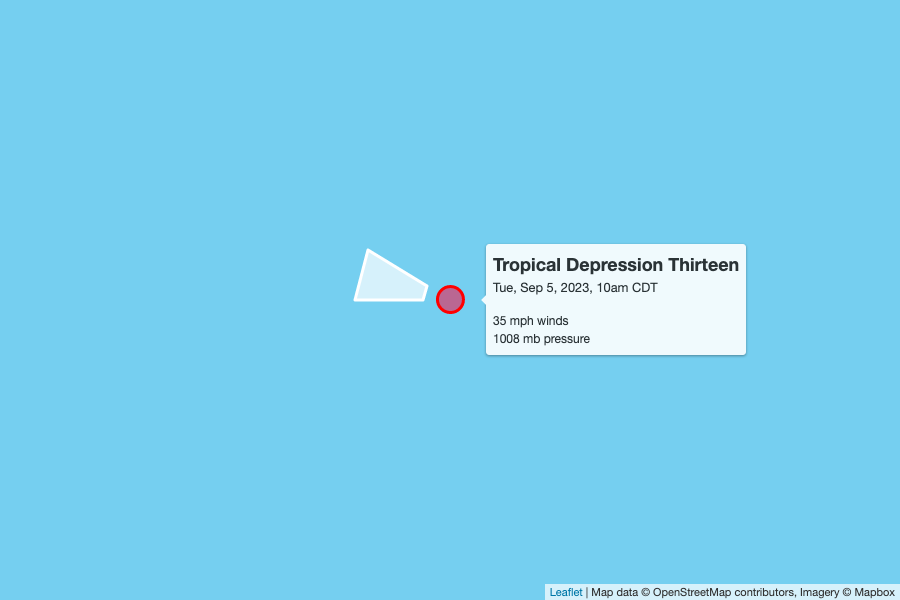
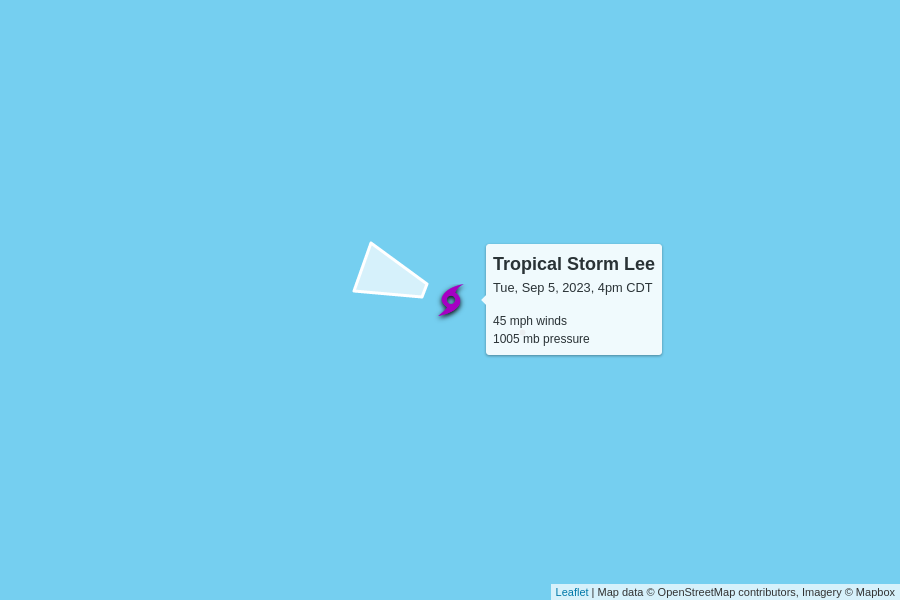
automatic update

Changed region(s): [[0.3733, 0.39, 0.84, 0.6], [0.5911, 0.96, 0.9956, 1.0]]

diff --git a/docs/index.html b/docs/index.html
@@ -101,8 +101,8 @@
       <tr>
         <td colspan="6" class="storm category-0" >
           <h2>
-            Tropical Depression Thirteen
-            <p class="updated">last updated <span data-time>2023-09-05T15:00:00.000Z</span></p>
+            Tropical Storm Lee
+            <p class="updated">last updated <span data-time>2023-09-05T21:00:00.000Z</span></p>
           </h2>
         </td>
       </tr>
@@ -117,15 +117,15 @@
       </tr>
       <tr>
         <td class="spacer"></td>
-        <td>35 mph<br></td>
-        <td>1008 mb<br></td>
+        <td>45 mph<br><br>+10 mph since last update</td>
+        <td>1005 mb<br><br>-3 mb since last update</td>
         <td>
-          15 mph to the west-northwest
+          16 mph to the west-northwest
           <br/>
-          <span style="display: inline-block; font-size: 1.5em; transform: rotate(285deg);">↑</span>
+          <span style="display: inline-block; font-size: 1.5em; transform: rotate(290deg);">↑</span>
         </td>
         <td><a href="https://raw.githubusercontent.com/mgwalker/atlantic-hurricanes/main/data/csv/AL132023.csv">AL132023.csv</a></td>
-        <td><a href="https://www.nhc.noaa.gov/archive/2023/THIRTEEN.shtml?">NHC advisories</a></td>
+        <td><a href="https://www.nhc.noaa.gov/archive/2023/LEE.shtml?">NHC advisories</a></td>
       </tr>
       <tr id="storm_AL132023" >
         <td class="spacer">
